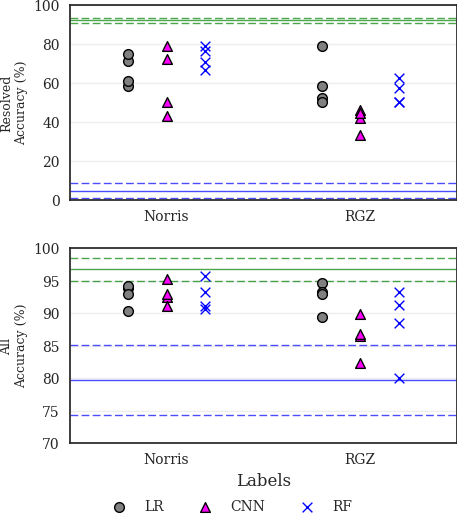
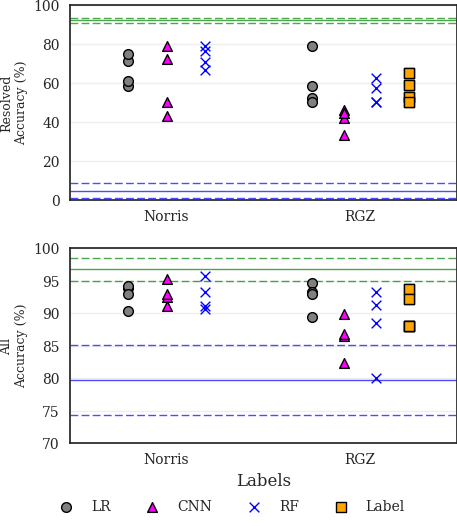
Added label-reading to cross-identification accuracy plot

diff --git a/ATLAS-CDFS/scripts/plot_grid_cross_identifications.py b/ATLAS-CDFS/scripts/plot_grid_cross_identifications.py
@@ -72,16 +72,28 @@ def plot(field='cdfs'):
 
     if field == 'cdfs':
         table = astropy.io.ascii.read(pipeline.TABLE_PATH)
+        rgzcat = astropy.io.ascii.read(pipeline.RGZ_PATH)
 
         atlas_to_swire_expert = {}
+        atlas_to_swire_rgz = {}
         key_to_atlas = {}
+        atlas_id_to_name = {}
+        is_compact = {}
         for row in table:
             name = row['Component Name (Franzen)']
             key_to_atlas[row['Key']] = name
             swire = row['Source SWIRE (Norris)']
             if not swire or not swire.startswith('SWIRE') or not name:
                 continue
+            atlas_id_to_name[row['Component ID (Franzen)']] = name
             atlas_to_swire_expert[name] = swire
+            is_compact[name] = pipeline.compact_test(row)
+        for row in rgzcat:
+            swire_name = row['SWIRE.designation']
+            if not swire_name or swire_name == '-99':
+                continue
+            name = atlas_id_to_name.get(row['atlas_id'], None)
+            atlas_to_swire_rgz[name] = swire_name
     else:
         atlas_to_swire_expert = {}
         with astropy.io.fits.open(pipeline.MIDDELBERG_TABLE4_PATH) as elais_components_fits:
@@ -244,6 +256,41 @@ def plot(field='cdfs'):
                 labeller = 'Norris'
             labeller_classifier_to_accuracies[labeller, cid.classifier, titlemap[dataset_name]].append(n_correct / n_total)
 
+    if field == 'cdfs':
+        # Compute accuracy for RGZ.
+        for dataset_name in pipeline.SET_NAMES:
+            for quadrant in range(4):
+                # Compact objects are cross-identified in a separate pipeline, which is slow so I don't want to reproduce it here.
+                # So I'll read the compact object cross-identifications from the LR(RGZ) cross-identification set, since it ought
+                # to be the same.
+                corresponding_set, = [cid for cid in cids if cid.quadrant == quadrant
+                                                             and cid.dataset_name == dataset_name
+                                                             and cid.labeller == 'rgz'
+                                                             and cid.classifier == 'LogisticRegression']
+                atlas_to_swire_lr = dict(zip(corresponding_set.radio_names, corresponding_set.ir_names))
+                n_total = 0
+                n_correct = 0
+                n_skipped = 0
+                n_compact = 0
+                atlas_keys = atlas_test_sets[:, pipeline.SET_NAMES[whatset[dataset_name]], quadrant].nonzero()[0]
+                # For each ATLAS object in RGZ & Norris...
+                for i in atlas_keys:
+                    name = key_to_atlas[i]
+                    if name not in atlas_to_swire_expert:
+                        n_skipped += 1
+                        continue
+                    if name not in atlas_to_swire_rgz or name not in atlas_to_swire_lr:
+                        n_skipped += 1
+                        continue
+                    if is_compact[name]:
+                        swire_predictor = atlas_to_swire_lr[name]
+                    else:
+                        swire_predictor = atlas_to_swire_rgz[name]
+                    swire_norris = atlas_to_swire_expert[name]
+                    n_correct += swire_norris == swire_predictor
+                    n_total += 1
+                labeller_classifier_to_accuracies['RGZ', 'Label', titlemap[dataset_name]].append(n_correct / n_total)
+
     labeller_classifier_to_accuracy = {}
     labeller_classifier_to_stdev = {}
     for key, accuracies in labeller_classifier_to_accuracies.items():
@@ -284,9 +331,10 @@ def plot(field='cdfs'):
         plt.hlines(random_acc[titlemap[set_name]] + random_stdev[titlemap[set_name]], -0.5, 2.5, linestyles='dashed', colors='blue', linewidth=1, zorder=1, alpha=0.7)
         plt.hlines(random_acc[titlemap[set_name]] - random_stdev[titlemap[set_name]], -0.5, 2.5, linestyles='dashed', colors='blue', linewidth=1, zorder=1, alpha=0.7)
         for i, labeller in enumerate(['Norris', 'RGZ']):
-            for j, classifier in enumerate(['LogisticRegression', 'CNN', 'RandomForestClassifier']):
+            for j, classifier in enumerate(['LogisticRegression', 'CNN', 'RandomForestClassifier'] + (['Label'] if field == 'cdfs' else [])):
                 ys = numpy.array(labeller_classifier_to_accuracies[labeller, classifier, titlemap[set_name]]) * 100
-                xs = [i + (j - 1) / 5] * len(ys)
+                x_offset = i + (j - 1) / 5 if labeller == 'Norris' or field == 'elais' else i + (j - 1.5) / 6
+                xs = [x_offset] * len(ys)
                 print('{} & {} & {} & ${:.02f} \\pm {:.02f}$\\\\'.format(print_set_name, labeller, classifier, numpy.mean(ys), numpy.std(ys)))
                 ax.set_xlim((-0.5, 1.5))
                 if k == 0:
@@ -308,7 +356,7 @@ def plot(field='cdfs'):
 
             ax.grid(which='major', axis='y', color='#EEEEEE')
 
-    plt.figlegend([handles[j] for j in sorted(handles)], ['LR', 'CNN', 'RF'], 'lower center', ncol=3, fontsize=10)
+    plt.figlegend([handles[j] for j in sorted(handles)], ['LR', 'CNN', 'RF'] + (['Label'] if field == 'cdfs' else []), 'lower center', ncol=4, fontsize=10)
     plt.subplots_adjust(bottom=0.15, hspace=0.25)
     plt.savefig('../images/{}_cross_identification_grid.pdf'.format(field),
                 bbox_inches='tight', pad_inches=0)
